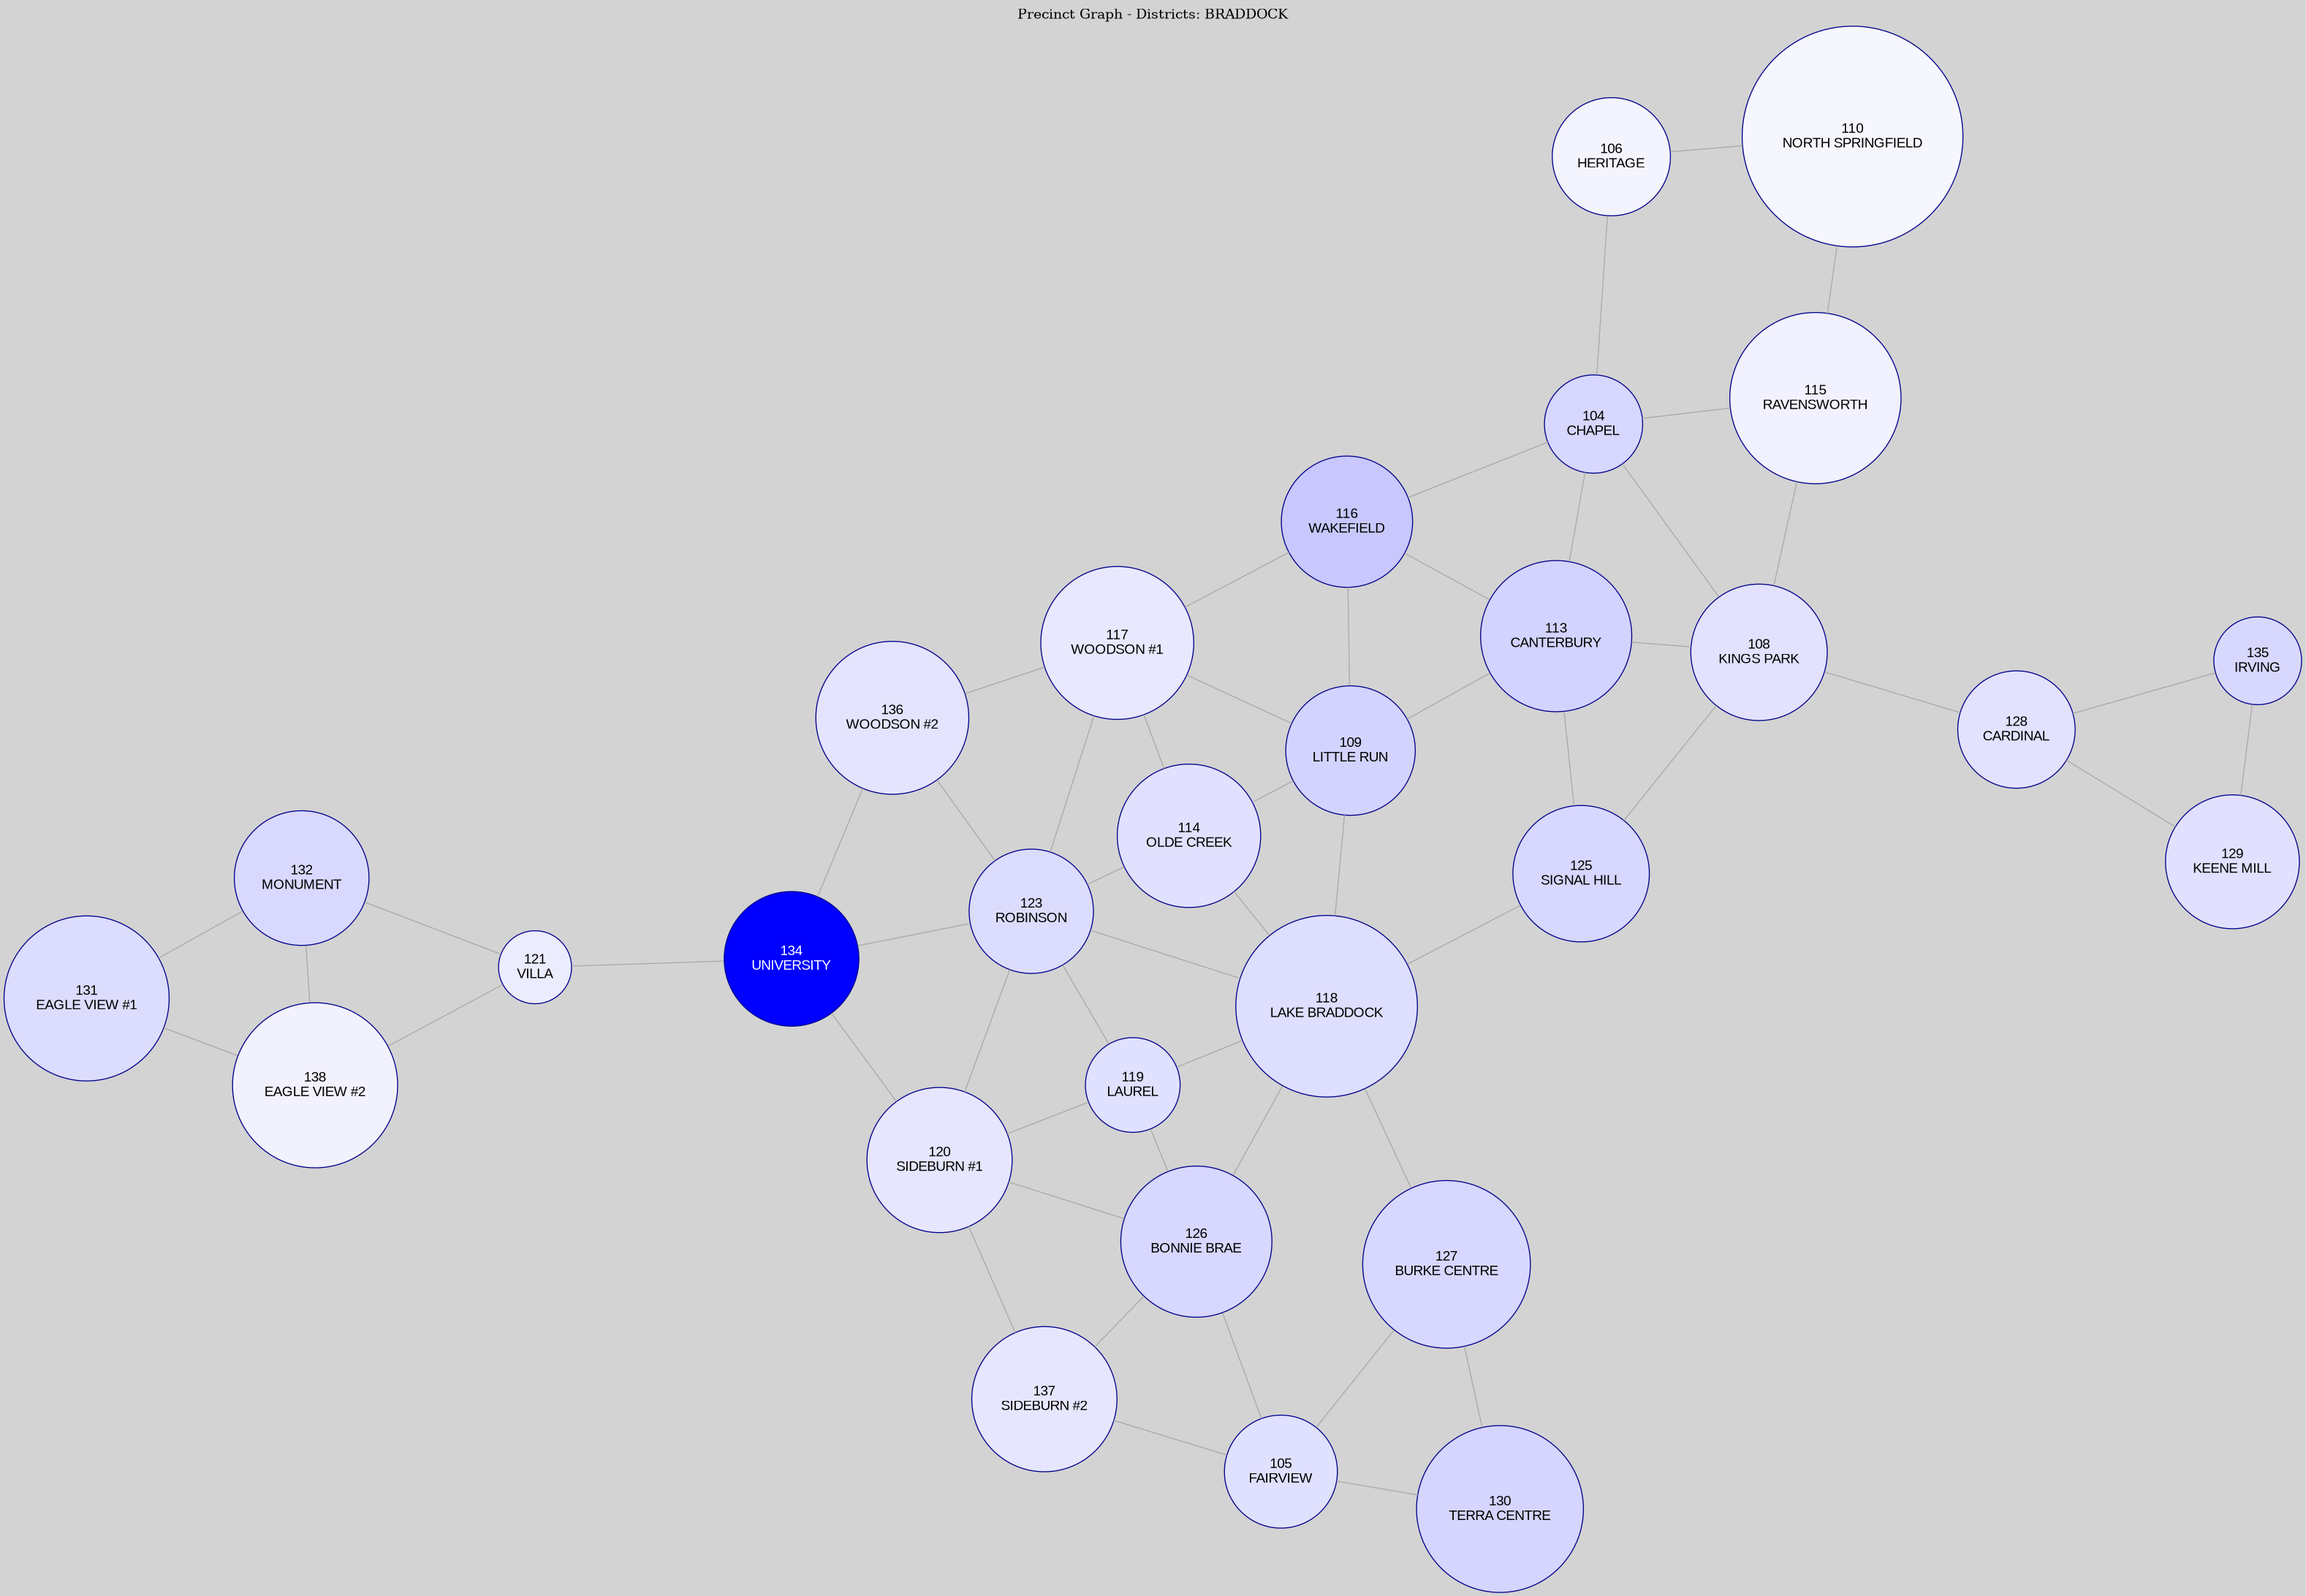
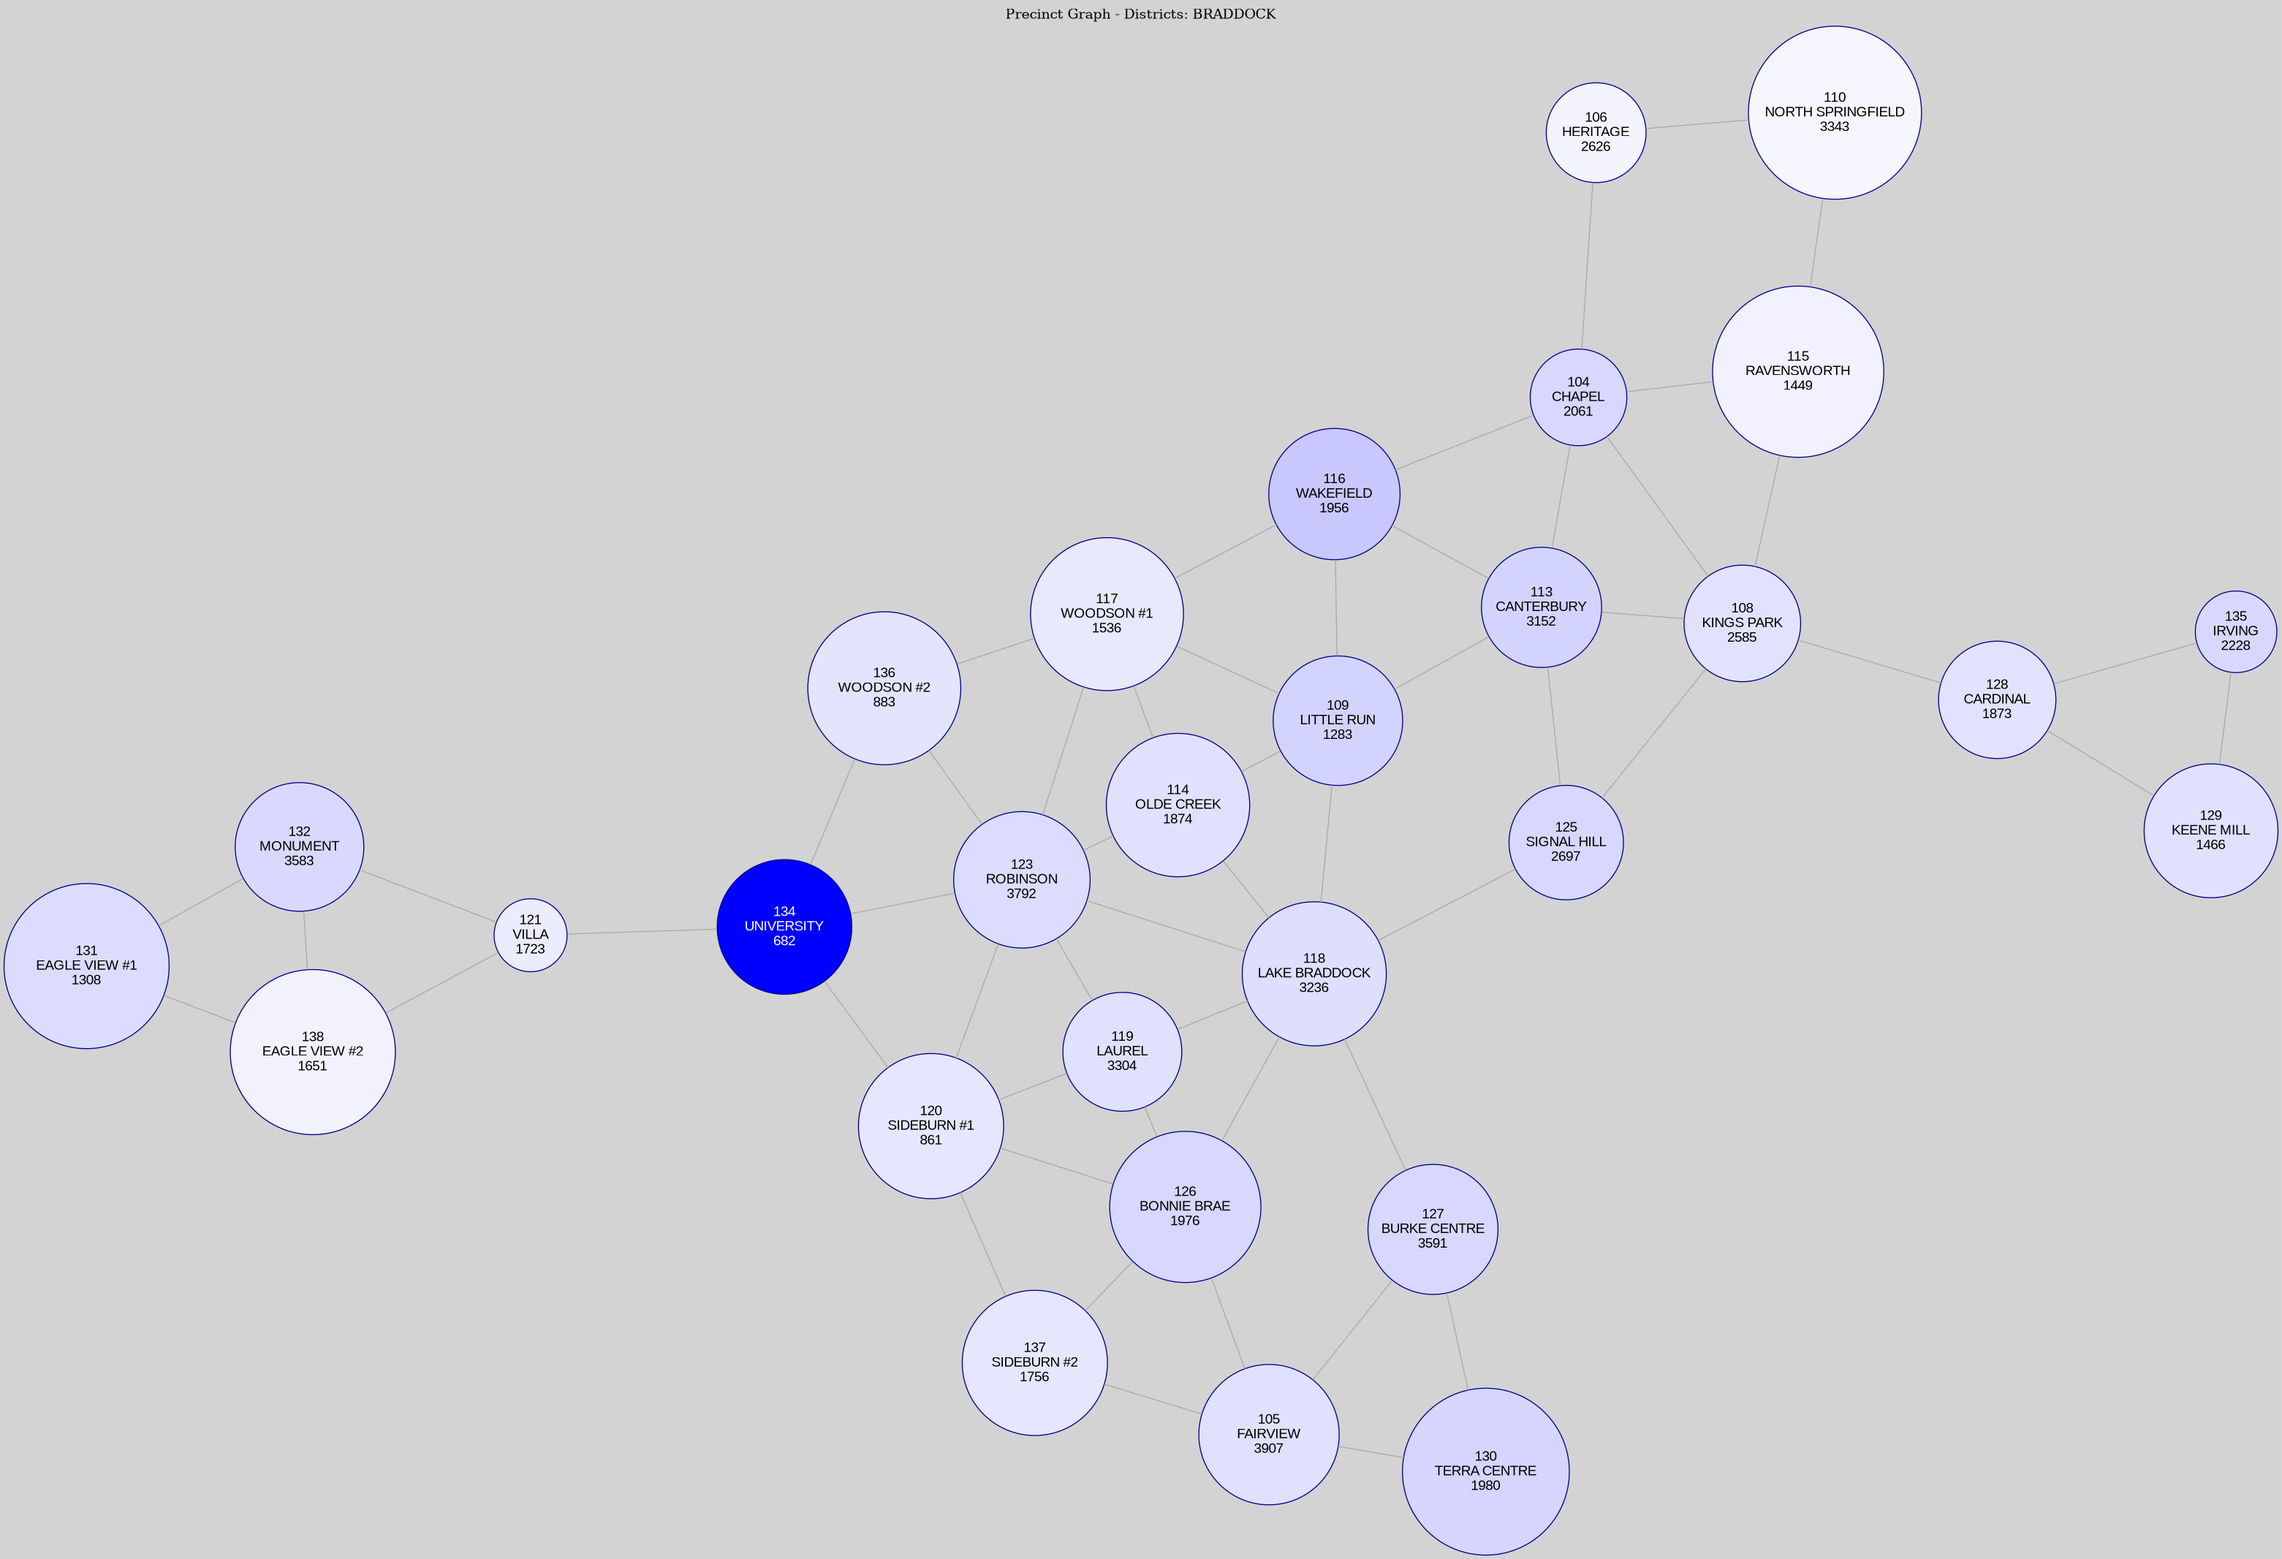
Update precinct graph to include totalVotes in node labels and adjust vote count aggregation in createPrecinctGraph.js; modify DOT file for improved clarity

diff --git a/src/createPrecinctGraph.js b/src/createPrecinctGraph.js
@@ -17,7 +17,7 @@ function createPrecinctGraph() {
         const precinctMetadata = metadata.find(precinctMetadata => precinctMetadata.precinct.id == precinct.id);
         precinct.color = precinctMetadata.color;
         precinct.ratio = precinctMetadata.ratio;
-        precinct.totalVotes = precinctMetadata.votes.reduce((acc, cur) => acc + cur, 0);
+        precinct.totalVotes = precinctMetadata.votes.reduce((acc, cur) => acc + cur.count, 0);
     }
 
     // filter out edges with ids not within the 100s
@@ -44,7 +44,7 @@ function createPrecinctGraph() {
         const textColor = notBlueValue < 0x9999 ? 'white' : 'black';
         const maxVotes = Math.max(...precincts.map(p => p.totalVotes));
         const size = Math.max(0.5, (precinct.totalVotes / maxVotes) * 2); // Adjust the multiplier as needed
-        graph += `${precinct.id} [label="${precinct.id}\\n${precinct.name}", fillcolor="${fillColor}", fontcolor="${textColor}", width="${size}", height="${size}"];\n`;
+        graph += `${precinct.id} [label="${precinct.id}\\n${precinct.name}\\n${Number(precinct.totalVotes)}", fillcolor="${fillColor}", fontcolor="${textColor}", width="${size}", height="${size}"];\n`;
         for (const neighbor of precinct.neighbors) {
             if (precinct.id < neighbor) { // to avoid duplicate edges
                 graph += `${precinct.id} -- ${neighbor};\n`;
